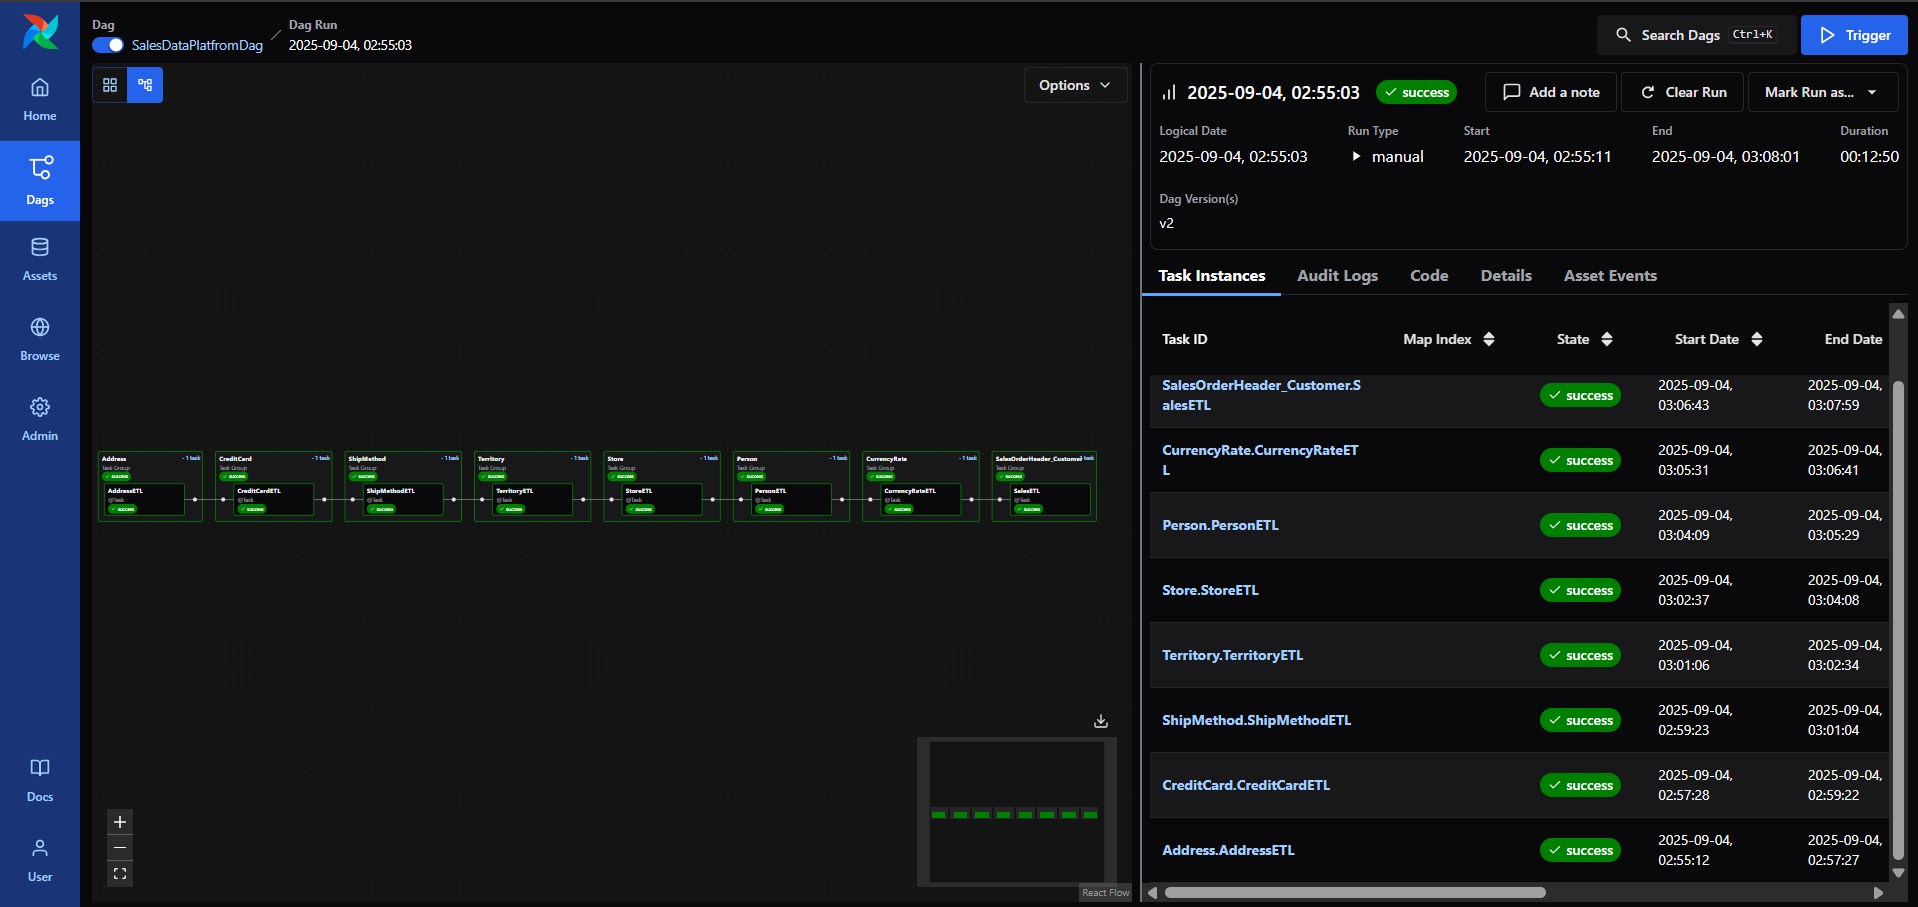
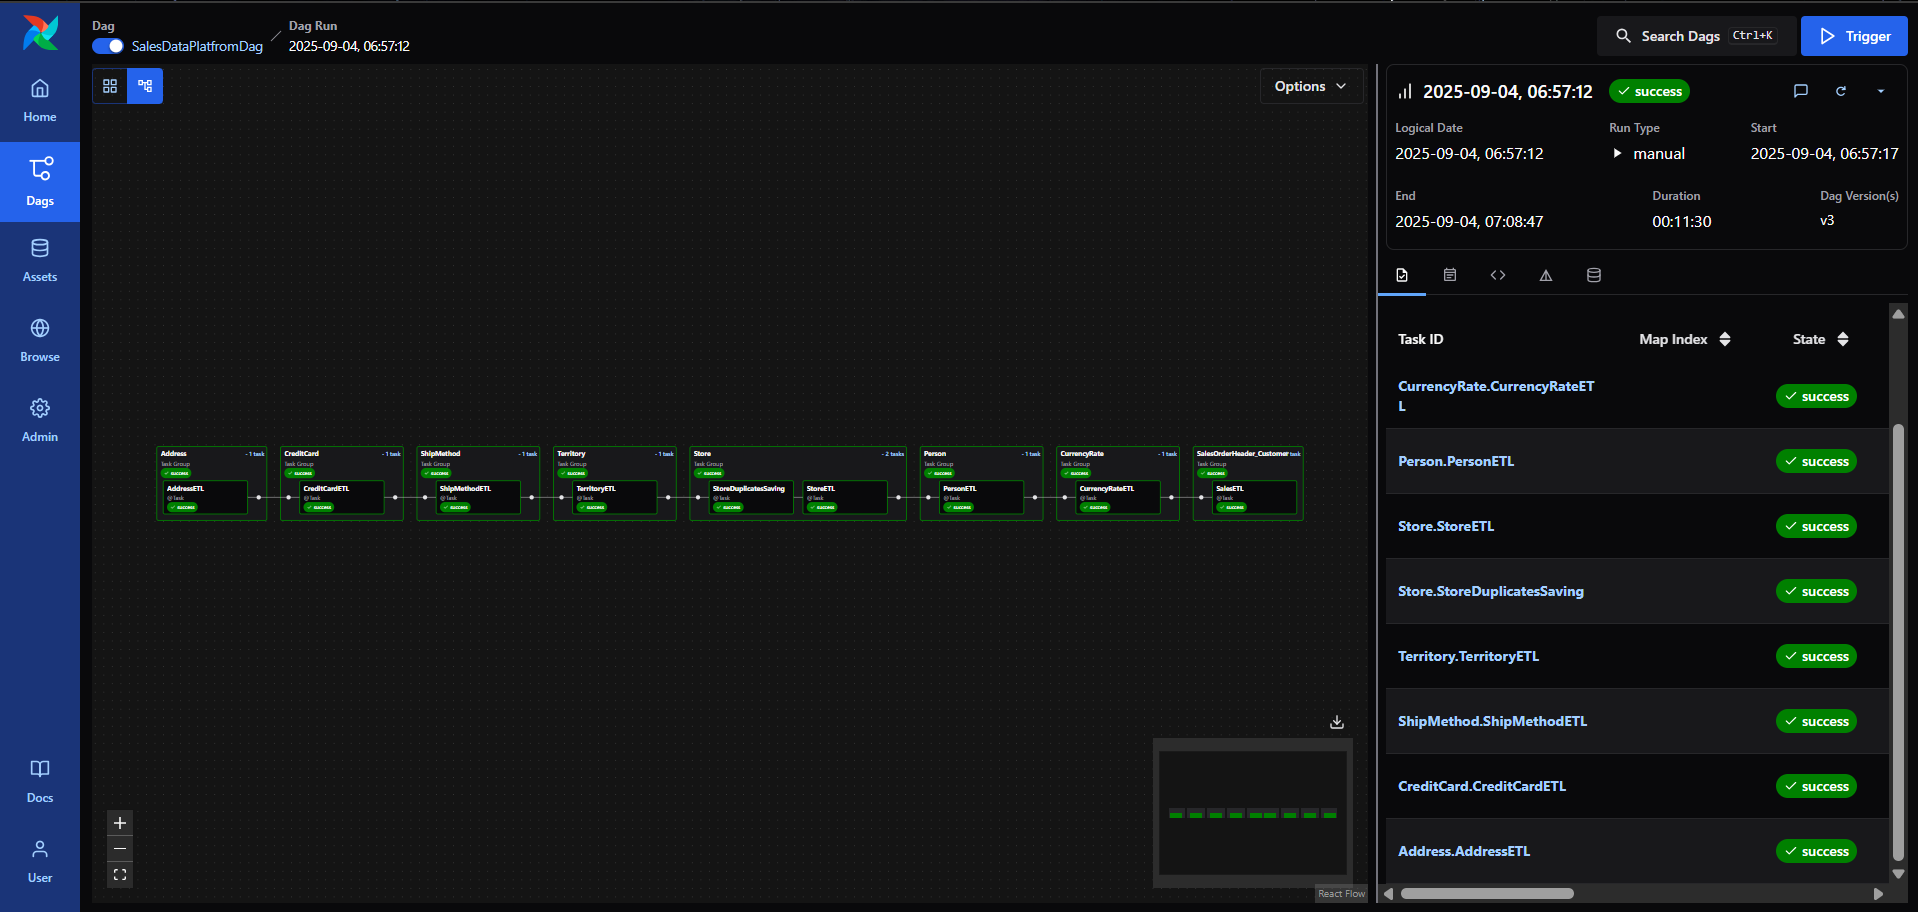
add files

diff --git a/dags/Utilities/Utilities.py b/dags/Utilities/Utilities.py
@@ -7,28 +7,30 @@ import datetime
 from pyspark.sql.window import Window
 
 
-# current_dir = os.getcwd()
-# logging_file = os.path.join(current_dir ,"logs.log")
+current_dir = os.path.dirname(__file__)
+logging_file = os.path.join(current_dir ,"logs.log")
+
 spark = ps.SparkSession.builder \
         .config("spark.jars" , "/usr/local/nifi/sqljdbc/enu/jars/postgresql-42.7.7.jar")\
         .appName("spark app").getOrCreate()
 
 
-# logger = logging.getLogger(__name__)
-# logger.setLevel(logging.DEBUG)
-# file_handler = logging.FileHandler(logging_file)
-# formatter = logging.Formatter('%(asctime)s - %(name)s - %(levelname)s - %(message)s')
-# file_handler.setFormatter(formatter)
-# logger.addHandler(file_handler)
+logger = logging.getLogger(__name__)
+logger.setLevel(logging.DEBUG)
+file_handler = logging.FileHandler(logging_file)
+formatter = logging.Formatter('%(asctime)s - %(name)s - %(levelname)s - %(message)s')
+file_handler.setFormatter(formatter)
+logger.addHandler(file_handler)
 
 pyspark_log = logging.getLogger('pyspark').setLevel(logging.CRITICAL)
 py4j_logger = logging.getLogger("py4j").setLevel(logging.CRITICAL)
 
 def extract_parquet(filename):
+    
     try:
-       # logger.info(f"start the extraction of {filename}")
+        logger.info(f"start the extraction of {filename}")
         df = spark.read.parquet(f"hdfs:/nifi_dest/files/{filename}")
-       # logger.info(f"extraction of {filename} has been done successfully")
+        logger.info(f"extraction of {filename} has been done successfully")
         return df
     except Exception as e:
        # logger.error(e)
@@ -36,6 +38,7 @@ def extract_parquet(filename):
 
 
 def load_to_postgresql(transformed_df : ps.DataFrame , Database , schema , table):
+    logger.info(f"loading of Dataframe To {Database}.{schema}.{table} started")
     transformed_df.write.format("jdbc") \
         .option("url", f"jdbc:postgresql://172.21.96.1:5432/{Database}") \
         .option("dbtable", f"{schema}.{table}") \
@@ -43,8 +46,9 @@ def load_to_postgresql(transformed_df : ps.DataFrame , Database , schema , table
         .option("password", "Gemy0100") \
         .option("driver", "org.postgresql.Driver")\
         .mode("append").save()
+    logger.info(f"loading of Dataframe To {Database}.{schema}.{table} ended")
     
-def GetFKReplacement(RawDataFrame : ps.DataFrame , PrimaryKey , TargetColumn):
+def GetFKReplacement(RawDataFrame , PrimaryKey , TargetColumn):
     """
         NOTE
         ----
@@ -72,15 +76,18 @@ def GetFKReplacement(RawDataFrame : ps.DataFrame , PrimaryKey , TargetColumn):
     return replacements
 
 def AddressTransform(RawDataFrame) -> ps.DataFrame:
+    logger.info(f"Transforming of Address Table Started")
     df_v_1 = RawDataFrame.withColumn("AddressLine1" , f.trim("AddressLine1")).withColumn("AddressLine2" , f.trim("AddressLine2")).withColumn("City" , f.trim("City"))
     df_v_2 = df_v_1.dropna("any" , subset=["AddressLine1"])
     df_v_3 = df_v_2.withColumn("AddressLine1" , f.initcap("AddressLine1")).withColumn("AddressLine2" , f.initcap("AddressLine2")).withColumn("City" , f.initcap("City"))
     df_v_4 = df_v_3.withColumn("ModifiedDate" , f.col("ModifiedDate").cast(types.DateType()))
     df_final_v = df_v_4.withColumn("ModifiedDate" , f.lit(datetime.datetime.now()))
+    logger.info(f"Transforming of Address Table Ended")
     return df_final_v 
 
 
 def CreditCardTransform(RawDataFrame) -> ps.DataFrame:
+    logger.info(f"Transforming of CreditCard Table Started")
     df_v_1 = RawDataFrame.filter(f.length(f.col("CardNumber")) == 14)
     df_v_2 = df_v_1\
     .withColumn("CardType" , f.initcap("CardType"))\
@@ -89,10 +96,12 @@ def CreditCardTransform(RawDataFrame) -> ps.DataFrame:
                 .otherwise(f.col("ExpMonth")))
     df_v_3 = df_v_2.drop_duplicates(subset=["CardNumber"])
     df_final_v = df_v_3.orderBy("CreditCardID").withColumn('ModifiedDate' , f.col("ModifiedDate").cast(types.DateType()))
+    logger.info(f"Transforming of CreditCard Table Ended")
     return df_final_v
 
 
 def TerritoryTransform(RawDataFrame) -> ps.DataFrame:
+    logger.info(f"Transforming of Territory Table Started")
     df_v_1 = RawDataFrame.withColumn("Name" , f.trim("Name"))\
         .withColumn("CountryRegionCode" , f.trim("CountryRegionCode"))\
         .withColumn("Group" , f.trim("Group"))
@@ -112,11 +121,13 @@ def TerritoryTransform(RawDataFrame) -> ps.DataFrame:
     .withColumn("CostYTD" , f.col("CostYTD").cast(types.DecimalType(20 , 4)))\
     .withColumn("CostLastYear" , f.col("CostLastYear").cast(types.DecimalType(20 , 4)))\
     .withColumn("ModifiedDate" , f.col("ModifiedDate").cast(types.DateType()))
+    logger.info(f"Transforming of Territory Table Ended")
     return df_final_v    
 
 
 
 def ShipMethodTransform(RawDataFrame):
+    logger.info(f"Transforming of ShipMethod Table Started")
     cols = RawDataFrame.columns
     cols.remove("rowguid")
     df_v_1 = RawDataFrame.select(cols)
@@ -126,25 +137,29 @@ def ShipMethodTransform(RawDataFrame):
     df_v_4 = df_v_3.withColumn("ShipBase" , f.col("ShipBase").cast(types.DecimalType(10 , 4)))\
                 .withColumn("ShipRate" , f.col("ShipRate").cast(types.DecimalType(10 , 4)))
     df_final_v = df_v_4.withColumn("ModifiedDate" , f.col("ModifiedDate").cast(types.DateType())).orderBy("ShipMethodID")
-
+    logger.info(f"Transforming of ShipMethod Table Ended")
     return df_final_v
 
 
 
 def load_to_duplicates_archive(DataFrame , Name):
-    DataFrame.write.mode("overwrite").format("csv").option("header" , True).save(f"hdfs:/nifi_dest/duplicates_mapping/{Name}")
-
+    logging.info(f"Loading Duplicates Mapping {Name} Table Started")
+    DataFrame.write.mode("append").format("csv").option("header" , True).save(f"hdfs:/nifi_dest/duplicates_mapping/{Name}")
+    logging.info(f"Loading Duplicates Mapping {Name} Table Ended")
 
 
 def StoreTransform(RawDataFrame):
+    logger.info(f"Transforming of Store Table Started")
     df_v_1 = RawDataFrame.select(["BusinessEntityID" , "Name" , "ModifiedDate"])
     df_v_2 = df_v_1.withColumn("Name" , f.trim("Name")).withColumn("Name" , f.initcap("Name"))
     df_v_3 = df_v_2.drop_duplicates(subset=["Name"])
     df_final_v = df_v_3.withColumn("ModifiedDate" , f.col("ModifiedDate").cast(types.DateType())).orderBy("BusinessEntityID")
+    logger.info(f"Transforming of Store Table Ended")
     return df_final_v
 
 
 def PersonTransform(RawDataFrame):
+    logger.info(f"Transforming of Person Table Started")
     df_v_1 = RawDataFrame.withColumn("PersonType" , f.when(f.col("PersonType").isNull() , "OT").otherwise(f.col("PersonType")))
     df_v_2 = df_v_1.withColumn("Title" , f.when(f.col("Title").isNull() , "Mx.").otherwise(f.col("Title")))
     df_v_3 = df_v_2.withColumn("PersonType" , f.upper("PersonType")).withColumn("Title" , f.initcap("Title"))\
@@ -156,15 +171,21 @@ def PersonTransform(RawDataFrame):
     cols = df_v_4.columns
     cols.remove("NameStyle")
     df_final_v = df_v_4.orderBy("BusinessEntityID").select(cols)
-
+    logger.info(f"Transforming of Person Table Ended")
     return df_final_v
 
 def extract_duplicates_mapping(CsvName):
+    logger.info(f"Extracting {CsvName} Mapping Table Started")
     try:
-        return spark.read.format("csv").option("header" , True).load(f"hdfs:/nifi_dest/duplicates_mapping/{CsvName}")
+        mapping_table =  spark.read.format("csv").option("header" , True).load(f"hdfs:/nifi_dest/duplicates_mapping/{CsvName}")
+        logger.info(f"Extracting {CsvName} Mapping Table Ended")
+        return mapping_table
     except Exception as e:
         return None
+    
+
 def CurrencyRateTransform(RawDataFrame):
+    logger.info(f"Transforming of CurrencyRate Table Started")
     df_v_1 = RawDataFrame.withColumn("CurrencyRateDate" , f.col("CurrencyRateDate").cast(types.DateType()))\
                      .withColumn("ModifiedDate" , f.col("ModifiedDate").cast(types.DateType()))
     df_v_2 = df_v_1.withColumn("FromCurrencyCode" , f.upper("FromCurrencyCode"))\
@@ -173,17 +194,20 @@ def CurrencyRateTransform(RawDataFrame):
                 .withColumn("EndOfDayRate" , f.col("EndOfDayRate").cast(types.DecimalType(10 , 4)))
 
     df_final_v = df_v_3.orderBy("CurrencyRateID")
-
+    logger.info(f"Transforming of CurrencyRate Table Ended")
     return df_final_v
 
 
 def proccess_duplicates(DataFrame , DuplicatesDataFrame , DuplicatesPrimaryKey , ReplacementKey):
+    logger.info(f"Processing Mapping Table Started")
     RawDupRdd = DuplicatesDataFrame.rdd.collect()
     to_replace = [*map(lambda row : int(row[f"{DuplicatesPrimaryKey}"]) , RawDupRdd)]
     value = [*map(lambda row : int(row["smallest"]) , RawDupRdd)]
+    logger.info(f"Processing Mapping Table Ended")
     return DataFrame.replace(to_replace = to_replace , value = value , subset = [f"{ReplacementKey}"])
 
 def FactSalesTransform(SalesRawDataFrame , CustomerRawDataFrame):
+    logger.info(f"Transforming of FactSales Table Started")
     JoinedRawDataFrame = SalesRawDataFrame.alias("sales").join(CustomerRawDataFrame.alias("customer") , on = "CustomerID" , how = "inner")
     df_v_1 = JoinedRawDataFrame.select(["SalesOrderID" , "PersonID" , "StoreID" , "customer.TerritoryID" , "BillToAddressID" , "ShipToAddressID" 
                                     , "ShipMethodID" , "CreditCardID" , "CurrencyRateID" ,"customer.AccountNumber" ,  "OrderDate"
@@ -204,5 +228,5 @@ def FactSalesTransform(SalesRawDataFrame , CustomerRawDataFrame):
                 .withColumn("TotalDue" , f.col("TotalDue").cast(types.DecimalType(10 , 4)))
     
     df_final_v = df_v_4
-
+    logger.info(f"Transforming of FactSales Table Ended")
     return df_final_v

diff --git a/dags/SalesDataPlatform.py b/dags/SalesDataPlatform.py
@@ -47,12 +47,20 @@ def SalesDataPlatfromDag():
 
     @task_group()
     def Store():
+        
+        @task
+        def StoreDuplicatesSaving():
+            RawDataFrame = u.extract_parquet("Store.parquet")
+            DuplicatesDataFrame = u.GetFKReplacement(RawDataFrame = RawDataFrame , PrimaryKey = "BusinessEntityID" , TargetColumn = "Name")
+            u.load_to_duplicates_archive(DataFrame = DuplicatesDataFrame , Name = "Store")
+
         @task
         def StoreETL():
             RawDataFrame = u.extract_parquet("Store.parquet")
             TransformedDataFrame = u.StoreTransform(RawDataFrame)
             u.load_to_postgresql(TransformedDataFrame , Database = "salesdatawarehouse" , schema = "silver" , table = "DimStore")            
-        StoreETL()
+         
+        StoreDuplicatesSaving() >> StoreETL()
 
     @task_group()
     def Person():
